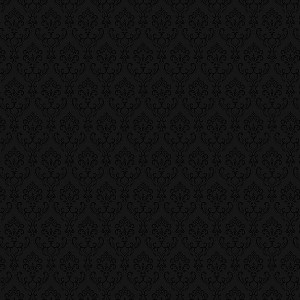
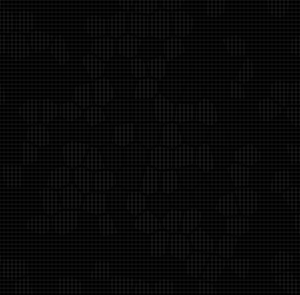
tr

Changed region(s): [[0.99, 0.2136, 1.0, 0.2441]]

diff --git a/public/styles/styles.css b/public/styles/styles.css
@@ -1,1 +1,1 @@
-html{touch-action:manipulation}body{margin:0;background:#2c2c2c;font-family:Arial;color:#afaabe;font-size:1em}input[type="text"],input[type="number"],input[type="password"]{padding:8px;width:228px;border:1px solid #afaabe;border-radius:5px;color:#afaabe;font-size:1.4em}input{-webkit-appearance:none;border-radius:0}button,input[type="submit"],.button{padding:16px;background-color:rgba(0,0,0,0);border:1px solid #afaabe;border-radius:5px;color:#afaabe;font-size:2em;font-weight:lighter}button.small,input[type="submit"].small,.button.small{font-size:1em}button.control-button,input[type="submit"].control-button,.button.control-button{padding:0;height:100%;width:100%;font-size:1.7em;background-color:#459e51;border:1px solid #afaabe;border-radius:10px;cursor:pointer}button.control-button.small,input[type="submit"].control-button.small,.button.control-button.small{font-size:1em}h1,h2,h3,h4,h5{margin-top:0}a{text-decoration:none;font-family:Arial;color:#afaabe;font-size:1em;white-space:nowrap}.hidden{display:none}.error{color:#D64937}#content{margin:0 auto;width:1024px;height:600px}table,tr,th,td{border:1px solid #afaabe;color:#afaabe;border-collapse:collapse;padding:8px}table{width:100%}#table-wrap{position:relative}.table_dark{font-size:1.8em;font-family:"Lucida Sans Unicode","Lucida Grande",Sans-Serif;text-align:left;border-collapse:collapse;margin:50px auto}.table_dark th{color:#EDB749;border-bottom:1px solid #37B5A5;padding:12px 17px}.table_dark td{color:#CAD4D6;border-bottom:1px solid #37B5A5;border-right:1px solid #37B5A5;padding:7px 17px}.table_dark tr:last-child td{border-bottom:none}.table_dark td:last-child{border-right:none}.table_dark tr:hover td{text-decoration:underline}.login-path{font-size:1.5em;margin:30px;color:#afaabe}#user-panel{display:flex;margin:10px;justify-content:space-evenly;align-items:center}#user-panel .deposit{color:gold;font-size:1.3em}#user-panel .user-name{color:wheat;font-size:1.2em}#table{background-color:#724f39;border-radius:200px;left:10%;position:absolute;top:17%;width:80%;z-index:0;box-shadow:0 0 25px 0 #2a272c}#table #felt{background-color:#387c41;border-radius:175px;width:92%;height:86%;position:relative;top:7%;left:4%;box-shadow:0 0 20px 0 #17541D inset}div.row{width:100%;position:relative;z-index:2}div.cell{float:left;width:25%;height:100%;position:relative}div.cell button{margin:22.5% 15%}div.double-cell{float:left;width:50%;height:100%}div.controls div.cell{width:15%}div.controls div.double-cell{width:30%}div.controls div.double-cell .cell-content{padding:8%}div.controls div.chat-cell{width:250px}input[type="range"]{width:90%;margin-top:8%;padding:0}.sitIn{padding:12% 34%;cursor:pointer}.table-requirements{display:block}div#messages{border:1px solid;border-radius:8px;height:50px;background-color:#fff;padding:8px;overflow:auto}div#messages p{margin:0;word-wrap:break-word}div#messages p.log-message{color:#A69029}div#chat input[type="submit"]{font-size:1.3em;padding:5px 8px;margin:1px 0 0 2px;background-color:rgba(46,31,62,0.9);border-radius:8px}div#chat input[type="text"]{width:197px;font-size:1em;margin:3px 0 0 8px;padding:9px;transform:translate(0, -2px);border-radius:8px}div.player-wrap{width:64%;margin:36% auto 0;position:relative}div.player-wrap.top{margin-top:45%}div.player-wrap.bottom{margin-top:22%}div.player-wrap.left{margin-left:30%}div.player-wrap.right{margin-left:8%}div.player-wrap.side{margin-top:32%}div.player-wrap .player-cards{overflow:hidden;height:60px;left:32px;position:absolute;top:0px;width:100px;-webkit-transition:top 0.4s ease;transition:top 0.4s ease}div.player-wrap .player-cards.dealt{top:-60px}div.player-wrap .player-cards .card:first-child{left:0}div.player-wrap .player-cards .card{left:28px;position:absolute}div.seat{display:flex;justify-content:center;flex-direction:column;align-items:center;width:100%;height:70px;background-color:#433f47;border:1px solid #afaabe;border-radius:3px;color:#afaabe;font-size:1.4em;font-weight:lighter;text-align:center;position:relative;box-shadow:0 0 5px 0 #2a272c;-webkit-transition:box-shadow .2s ease,border .2s ease;transition:box-shadow .2s ease,border .2s ease}div.seat.active{color:#e9e0ee;border:2px solid #a1a6a9;box-shadow:0 0 2px 0 #94c3de}div.seat p{text-overflow:ellipsis;overflow:hidden;margin:0}div.seat .player-content span{line-height:1.2;display:block}div.seat .player-content .notification{line-height:2.4}div#board-wrap{margin:6% 8%}div#board-wrap .card{box-shadow:0 0 10px 0 rgba(0,0,0,0.5);border-radius:8px;margin:0 auto}div#board-wrap .card-container{width:19%;display:inline-block}.card{background-image:url("/images/deck.png");background-size:1040px auto;border-radius:8px 8px 0 0;height:100%;box-shadow:0 0 3px 0 #808080;overflow:hidden;width:72px;height:107px}.card.card-As{background-position:0.2% 0.5%}.card.card-Ah{background-position:0.2% 99.3%}.card.card-Ad{background-position:0.2% 66.5%}.card.card-Ac{background-position:0.2% 33.3%}.card.card-Ks{background-position:7.9% 0.5%}.card.card-Kh{background-position:7.9% 99.3%}.card.card-Kd{background-position:7.9% 66.5%}.card.card-Kc{background-position:7.9% 33.3%}.card.card-Qs{background-position:15.5% 0.5%}.card.card-Qh{background-position:15.5% 99.3%}.card.card-Qd{background-position:15.5% 66.5%}.card.card-Qc{background-position:15.5% 33.3%}.card.card-Js{background-position:23.2% 0.5%}.card.card-Jh{background-position:23.2% 99.3%}.card.card-Jd{background-position:23.2% 66.5%}.card.card-Jc{background-position:23.2% 33.3%}.card.card-Ts{background-position:30.9% 0.5%}.card.card-Th{background-position:30.9% 99.3%}.card.card-Td{background-position:30.9% 66.5%}.card.card-Tc{background-position:30.9% 33.3%}.card.card-9s{background-position:38.6% 0.5%}.card.card-9h{background-position:38.6% 99.3%}.card.card-9d{background-position:38.6% 66.5%}.card.card-9c{background-position:38.6% 33.3%}.card.card-8s{background-position:46.3% 0.5%}.card.card-8h{background-position:46.3% 99.3%}.card.card-8d{background-position:46.3% 66.5%}.card.card-8c{background-position:46.3% 33.3%}.card.card-7s{background-position:53.8% 0.5%}.card.card-7h{background-position:53.8% 99.3%}.card.card-7d{background-position:53.8% 66.5%}.card.card-7c{background-position:53.8% 33.3%}.card.card-6s{background-position:61.5% 0.5%}.card.card-6h{background-position:61.5% 99.3%}.card.card-6d{background-position:61.5% 66.5%}.card.card-6c{background-position:61.5% 33.3%}.card.card-5s{background-position:69.2% 0.5%}.card.card-5h{background-position:69.2% 99.3%}.card.card-5d{background-position:69.2% 66.5%}.card.card-5c{background-position:69.2% 33.3%}.card.card-4s{background-position:76.8% 0.5%}.card.card-4h{background-position:76.8% 99.3%}.card.card-4d{background-position:76.8% 66.5%}.card.card-4c{background-position:76.8% 33.3%}.card.card-3s{background-position:84.5% 0.5%}.card.card-3h{background-position:84.5% 99.3%}.card.card-3d{background-position:84.5% 66.5%}.card.card-3c{background-position:84.5% 33.3%}.card.card-2s{background-position:92.1% 0.5%}.card.card-2h{background-position:92.1% 99.3%}.card.card-2d{background-position:92.1% 66.5%}.card.card-2c{background-position:92.1% 33.3%}.card.card-back{background-position:99.8% 33.3%}#dealer-wrap-0{top:105%;left:82%}#dealer-wrap-1{top:105%;left:5%}#dealer-wrap-2{top:105%;left:80%}#dealer-wrap-3{top:105%;left:0px}#dealer-wrap-4{top:75%;left:-20%}#dealer-wrap-5{top:-30%;left:0%}#dealer-wrap-6{top:-35%;left:0%}#dealer-wrap-7{left:85%;top:-35%}#dealer-wrap-8{top:-35%;left:85%}#dealer-wrap-9{top:70%;left:110%}.dealer-button{position:absolute;border:2px solid #afaabe;border-radius:20px;width:12%;height:20%;text-align:center;background-color:rgba(64,61,68,0.9);line-height:1.25;box-shadow:0 3px 0 0 #604FAD}#bets-0{top:75%;left:75%}#bets-1{top:110%;left:0}#bets-2{top:110%;left:0}#bets-3{left:-75%;top:75%}#bets-4{top:40%;left:-75%}#bets-5{top:-30%;left:-75%}#bets-6{top:-66%;left:-50%}#bets-7{top:-66%;left:50%}#bets-8{top:-30%;left:75%}#bets-9{top:33%;left:75%}.bets{position:absolute;text-align:center;width:100%;font-weight:bold;text-shadow:0 0 4px rgba(0,0,0,0.5);font-size:1.6em}.bets .ng-binding{display:flex;align-items:center;justify-content:center}.bets img{width:15px;height:15px}#pot-wrap{height:10%}#pot-wrap #pot{display:block;width:100%;text-align:center;font-weight:bold;text-shadow:0 0 4px rgba(0,0,0,0.5)}#to-lobby{font-size:1em;position:absolute;top:2%;left:2%}.modal-wrap{position:absolute;top:0;left:0;width:100%;height:100%;z-index:100}.modal-wrap .modal{padding:32px;background-color:#fff;border-radius:5px;position:relative;margin:0 auto;top:18%;width:440px;z-index:101}.modal-wrap .modal label{display:block;font-size:large;margin-bottom:10px}.modal-wrap .modal .input-left{margin-right:32px;width:50%}.modal-wrap #curtain{position:fixed;top:0;left:0;width:100%;height:100%;background-color:rgba(0,0,0,0.4);z-index:2}#developer-info{margin-top:8px;font-size:0.8em}#developer-info a{text-decoration:underline}#full-screen-icon{position:fixed;right:10px;top:10px;color:#7c8186;font-weight:100;font-size:2.5em}@media screen and (max-width:767px),screen and (max-device-width:480px){#content{width:480px;height:320px}body{font-size:0.5em}#to-lobby{padding:10px;font-size:1.3em}.table-requirements{font-size:1.6em}div.player-wrap{margin:25% auto 0}div.player-wrap.top{margin-top:36%}div.player-wrap.side{margin-top:28%}div.player-wrap .player-cards{left:8px;height:25px}div.player-wrap .player-cards.dealt{top:-25px}.card{background-size:460px auto;width:32px;height:47px}#pot{font-size:1.6em}.bets{font-size:1.6em}div.row.controls .cell{width:20%}div.row.controls .cell button{margin:15%}div.row.controls .double-cell{width:40%}div.row.controls .double-cell .cell-content{padding:4% 8%}div.row.controls .double-cell .cell-content input[type="range"]{margin-top:0}div.row.controls .double-cell .cell-content #bet-input{margin-top:5px}.modal-wrap .modal{width:300px}.modal-wrap .modal .input-left{font-size:2em}#developer-info{font-size:1.4em}}.bottom-corrector{display:none;z-index:-1 !important}@media screen and (min-width:768px) and (max-width:1024px){#content{width:768px;height:520px}body{font-size:0.75em}div.row.controls{position:absolute;width:100%;border-radius:8px;bottom:0;height:116px}.bottom-corrector{display:block}div.player-wrap{margin:34% auto 0}div.player-wrap .player-cards{left:17px;height:50px}div.player-wrap .player-cards.dealt{top:-50px}.card{background-size:900px auto;width:61px;height:93px}.bets{font-size:1.2em}div#chat div#messages{height:50px;width:135px}div#chat input[type="text"]{width:137px;font-size:1.3em;padding:8px}div#chat input[type="submit"]{transform:translate(0, -2px);padding:7px 8px;width:35px}div#chat input[type="text"]{width:140px}#pot{font-size:1.3em}.modal-wrap .modal{width:320px}#developer-info{font-size:1em}div.seat{height:60px}div.controls div.chat-cell{width:190px}}#noticeOrientation{display:none;position:fixed;top:0;left:0;height:100%;width:100%;align-items:center;justify-content:center}#noticeOrientation img{width:95%}@media screen and (orientation:portrait) and (max-device-width:500px){#content{display:none}#noticeOrientation{display:flex}}
+html{touch-action:manipulation}body{margin:0;background:#2c2c2c;font-family:Arial;color:#afaabe;font-size:1em;background-image:url(/images/bg.jpg)}input[type="text"],input[type="number"],input[type="password"]{padding:8px;width:228px;border:1px solid #afaabe;border-radius:5px;color:#afaabe;font-size:1.4em}input{-webkit-appearance:none;border-radius:0}button,input[type="submit"],.button{padding:16px;background-color:rgba(0,0,0,0);border:1px solid #afaabe;border-radius:5px;color:#afaabe;font-size:2em;font-weight:lighter}button.small,input[type="submit"].small,.button.small{font-size:1em}button.control-button,input[type="submit"].control-button,.button.control-button{padding:0;height:100%;width:100%;font-size:1.7em;background-color:#459e51;border:1px solid #afaabe;border-radius:10px;cursor:pointer}button.control-button.small,input[type="submit"].control-button.small,.button.control-button.small{font-size:1em}h1,h2,h3,h4,h5{margin-top:0}a{text-decoration:none;font-family:Arial;color:#afaabe;font-size:1em;white-space:nowrap}.hidden{display:none}.error{color:#D64937}#content{margin:0 auto;width:1024px;height:600px}table,tr,th,td{border:1px solid #afaabe;color:#afaabe;border-collapse:collapse;padding:8px}table{width:100%}#table-wrap{position:relative}.table_dark{font-size:1.8em;font-family:"Lucida Sans Unicode","Lucida Grande",Sans-Serif;text-align:left;border-collapse:collapse;margin:50px auto}.table_dark th{color:#EDB749;border-bottom:1px solid #37B5A5;padding:12px 17px}.table_dark td{color:#CAD4D6;border-bottom:1px solid #37B5A5;border-right:1px solid #37B5A5;padding:7px 17px}.table_dark tr:last-child td{border-bottom:none}.table_dark td:last-child{border-right:none}.table_dark tr:hover td{text-decoration:underline}.login-path{font-size:1.5em;margin:30px;color:#afaabe}#user-panel{display:flex;margin:10px;justify-content:space-evenly;align-items:center}#user-panel .deposit{color:gold;font-size:1.3em}#user-panel .user-name{color:wheat;font-size:1.2em}#table{background-color:#724f39;border-radius:200px;left:10%;position:absolute;top:17%;width:80%;z-index:0;box-shadow:0 0 25px 0 #2a272c}#table #felt{background-color:#387c41;border-radius:175px;width:92%;height:86%;position:relative;top:7%;left:4%;box-shadow:0 0 20px 0 #17541D inset}div.row{width:100%;position:relative;z-index:2}div.cell{float:left;width:25%;height:100%;position:relative}div.cell button{margin:22.5% 15%}div.double-cell{float:left;width:50%;height:100%}div.controls div.cell{width:15%}div.controls div.double-cell{width:30%}div.controls div.double-cell .cell-content{padding:8%}div.controls div.chat-cell{width:250px}input[type="range"]{width:90%;margin-top:8%;padding:0}.sitIn{padding:12% 34%;cursor:pointer}.table-requirements{display:block}div#messages{border:1px solid;border-radius:8px;height:50px;background-color:#fff;padding:8px;overflow:auto}div#messages p{margin:0;word-wrap:break-word}div#messages p.log-message{color:#A69029}div#chat input[type="submit"]{font-size:1.3em;padding:5px 8px;margin:1px 0 0 2px;background-color:rgba(46,31,62,0.9);border-radius:8px}div#chat input[type="text"]{width:197px;font-size:1em;margin:3px 0 0 8px;padding:9px;transform:translate(0, -2px);border-radius:8px}div.player-wrap{width:64%;margin:36% auto 0;position:relative}div.player-wrap.top{margin-top:45%}div.player-wrap.bottom{margin-top:22%}div.player-wrap.left{margin-left:30%}div.player-wrap.right{margin-left:8%}div.player-wrap.side{margin-top:32%}div.player-wrap .player-cards{overflow:hidden;height:60px;left:32px;position:absolute;top:0px;width:100px;-webkit-transition:top 0.4s ease;transition:top 0.4s ease}div.player-wrap .player-cards.dealt{top:-60px}div.player-wrap .player-cards .card:first-child{left:0}div.player-wrap .player-cards .card{left:28px;position:absolute}div.seat{display:flex;justify-content:center;flex-direction:column;align-items:center;width:100%;height:70px;background-color:#0d0d0d;border:1px solid #afaabe;border-radius:3px;color:#afaabe;font-size:1.4em;font-weight:lighter;text-align:center;position:relative;box-shadow:0 0 5px 0 #2a272c;-webkit-transition:box-shadow .2s ease,border .2s ease;transition:box-shadow .2s ease,border .2s ease}div.seat.active{color:#e9e0ee;border:2px solid #a1a6a9;box-shadow:0 0 3px 0 #94c3de}div.seat.winner{color:#e9e0ee;border:2px solid #eabb56;box-shadow:0 0 5px 0 #4f9745}div.seat p{text-overflow:ellipsis;overflow:hidden;margin:0}div.seat .player-content span{line-height:1.2;display:block}div.seat .player-content .notification{line-height:2.4}div#board-wrap{margin:6% 8%}div#board-wrap .card{box-shadow:0 0 10px 0 rgba(0,0,0,0.5);border-radius:8px;margin:0 auto}div#board-wrap .card-container{width:19%;display:inline-block}.card{background-image:url("/images/deck.png");background-size:1040px auto;border-radius:8px 8px 0 0;height:100%;box-shadow:0 0 3px 0 #808080;overflow:hidden;width:72px;height:107px}.card.card-As{background-position:0.2% 0.5%}.card.card-Ah{background-position:0.2% 99.3%}.card.card-Ad{background-position:0.2% 66.5%}.card.card-Ac{background-position:0.2% 33.3%}.card.card-Ks{background-position:7.9% 0.5%}.card.card-Kh{background-position:7.9% 99.3%}.card.card-Kd{background-position:7.9% 66.5%}.card.card-Kc{background-position:7.9% 33.3%}.card.card-Qs{background-position:15.5% 0.5%}.card.card-Qh{background-position:15.5% 99.3%}.card.card-Qd{background-position:15.5% 66.5%}.card.card-Qc{background-position:15.5% 33.3%}.card.card-Js{background-position:23.2% 0.5%}.card.card-Jh{background-position:23.2% 99.3%}.card.card-Jd{background-position:23.2% 66.5%}.card.card-Jc{background-position:23.2% 33.3%}.card.card-Ts{background-position:30.9% 0.5%}.card.card-Th{background-position:30.9% 99.3%}.card.card-Td{background-position:30.9% 66.5%}.card.card-Tc{background-position:30.9% 33.3%}.card.card-9s{background-position:38.6% 0.5%}.card.card-9h{background-position:38.6% 99.3%}.card.card-9d{background-position:38.6% 66.5%}.card.card-9c{background-position:38.6% 33.3%}.card.card-8s{background-position:46.3% 0.5%}.card.card-8h{background-position:46.3% 99.3%}.card.card-8d{background-position:46.3% 66.5%}.card.card-8c{background-position:46.3% 33.3%}.card.card-7s{background-position:53.8% 0.5%}.card.card-7h{background-position:53.8% 99.3%}.card.card-7d{background-position:53.8% 66.5%}.card.card-7c{background-position:53.8% 33.3%}.card.card-6s{background-position:61.5% 0.5%}.card.card-6h{background-position:61.5% 99.3%}.card.card-6d{background-position:61.5% 66.5%}.card.card-6c{background-position:61.5% 33.3%}.card.card-5s{background-position:69.2% 0.5%}.card.card-5h{background-position:69.2% 99.3%}.card.card-5d{background-position:69.2% 66.5%}.card.card-5c{background-position:69.2% 33.3%}.card.card-4s{background-position:76.8% 0.5%}.card.card-4h{background-position:76.8% 99.3%}.card.card-4d{background-position:76.8% 66.5%}.card.card-4c{background-position:76.8% 33.3%}.card.card-3s{background-position:84.5% 0.5%}.card.card-3h{background-position:84.5% 99.3%}.card.card-3d{background-position:84.5% 66.5%}.card.card-3c{background-position:84.5% 33.3%}.card.card-2s{background-position:92.1% 0.5%}.card.card-2h{background-position:92.1% 99.3%}.card.card-2d{background-position:92.1% 66.5%}.card.card-2c{background-position:92.1% 33.3%}.card.card-back{background-position:99.8% 33.3%}#dealer-wrap-0{top:105%;left:82%}#dealer-wrap-1{top:105%;left:5%}#dealer-wrap-2{top:105%;left:80%}#dealer-wrap-3{top:105%;left:0px}#dealer-wrap-4{top:75%;left:-20%}#dealer-wrap-5{top:-30%;left:0%}#dealer-wrap-6{top:-35%;left:0%}#dealer-wrap-7{left:85%;top:-35%}#dealer-wrap-8{top:-35%;left:85%}#dealer-wrap-9{top:70%;left:110%}.dealer-button{position:absolute;border:2px solid #afaabe;border-radius:20px;width:12%;height:20%;text-align:center;background-color:rgba(64,61,68,0.9);line-height:1.25;box-shadow:0 3px 0 0 #604FAD}#bets-0{top:75%;left:75%}#bets-1{top:110%;left:0}#bets-2{top:110%;left:0}#bets-3{left:-75%;top:75%}#bets-4{top:40%;left:-75%}#bets-5{top:-30%;left:-75%}#bets-6{top:-66%;left:-50%}#bets-7{top:-66%;left:50%}#bets-8{top:-30%;left:75%}#bets-9{top:33%;left:75%}.bets{position:absolute;text-align:center;width:100%;font-weight:bold;text-shadow:0 0 4px rgba(0,0,0,0.5);font-size:1.6em}.bets .ng-binding{display:flex;align-items:center;justify-content:center}.bets img{width:15px;height:15px}#pot-wrap{height:10%}#pot-wrap #pot{display:block;width:100%;text-align:center;font-weight:bold;text-shadow:0 0 4px rgba(0,0,0,0.5)}#to-lobby{font-size:1em;position:absolute;top:2%;left:2%}.modal-wrap{position:absolute;top:0;left:0;width:100%;height:100%;z-index:100}.modal-wrap .modal{padding:32px;background-color:#333;border-radius:5px;position:relative;margin:0 auto;top:18%;width:440px;z-index:101}.modal-wrap .modal label{display:block;font-size:large;margin-bottom:10px}.modal-wrap .modal .input-left{margin-right:32px;width:50%}.modal-wrap #curtain{position:fixed;top:0;left:0;width:100%;height:100%;background-color:rgba(0,0,0,0.4);z-index:2}#developer-info{margin-top:8px;font-size:0.8em}#developer-info a{text-decoration:underline}#full-screen-icon{position:fixed;right:10px;top:10px;color:#7c8186;font-weight:100;font-size:2.5em}@media screen and (max-width:767px),screen and (max-device-width:480px){#content{width:480px;height:320px}body{font-size:0.5em}#to-lobby{padding:10px;font-size:1.3em}.table-requirements{font-size:1.6em}div.player-wrap{margin:25% auto 0}div.player-wrap.top{margin-top:36%}div.player-wrap.side{margin-top:28%}div.player-wrap .player-cards{left:8px;height:25px}div.player-wrap .player-cards.dealt{top:-25px}.card{background-size:460px auto;width:32px;height:47px}#pot{font-size:1.6em}.bets{font-size:1.6em}div.row.controls .cell{width:20%}div.row.controls .cell button{margin:15%}div.row.controls .double-cell{width:40%}div.row.controls .double-cell .cell-content{padding:4% 8%}div.row.controls .double-cell .cell-content input[type="range"]{margin-top:0}div.row.controls .double-cell .cell-content #bet-input{margin-top:5px}.modal-wrap .modal{width:300px}.modal-wrap .modal .input-left{font-size:2em}#developer-info{font-size:1.4em}}.bottom-corrector{display:none;z-index:-1 !important}@media screen and (min-width:768px) and (max-width:1024px){#content{width:768px;height:520px}body{font-size:0.75em}div.row.controls{position:absolute;width:100%;border-radius:8px;bottom:0;height:116px}.bottom-corrector{display:block}div.player-wrap{margin:34% auto 0}div.player-wrap .player-cards{left:17px;height:50px}div.player-wrap .player-cards.dealt{top:-50px}.card{background-size:900px auto;width:61px;height:93px}.bets{font-size:1.2em}div#chat div#messages{height:50px;width:135px}div#chat input[type="text"]{width:137px;font-size:1.3em;padding:8px}div#chat input[type="submit"]{transform:translate(0, -2px);padding:7px 8px;width:35px}div#chat input[type="text"]{width:140px}#pot{font-size:1.3em}.modal-wrap .modal{width:320px}#developer-info{font-size:1em}div.seat{height:60px}div.controls div.chat-cell{width:190px}}#noticeOrientation{display:none;position:fixed;top:0;left:0;height:100%;width:100%;align-items:center;justify-content:center}#noticeOrientation img{width:95%}#preloader{z-index:100000;display:flex;position:fixed;top:0;left:0;height:100%;width:100%;background-color:#0d0d0d;transition:.5s;justify-content:center;align-items:center}#preloader img{animation-name:rotation;animation-duration:2s;animation-iteration-count:infinite;animation-timing-function:linear;width:200px}@keyframes rotation{0%{transform:rotate(0deg)}100%{transform:rotate(360deg)}}.hide{opacity:0}@media screen and (orientation:portrait) and (max-device-width:500px){#content{display:none}#noticeOrientation{display:flex}}

diff --git a/app/controllers/table.js b/app/controllers/table.js
@@ -16,7 +16,8 @@ app.controller('TableController', ['$scope', '$rootScope', '$http', '$routeParam
         $scope.myCards = ['', ''];
         $scope.mySeat = null;
         $scope.betAmount = 0;
-        $scope.winMsg = null;
+        $rootScope.winnerName = null;
+        $rootScope.winnerMsg = null;
         $rootScope.sittingOnTable = null;
 
         // Existing listeners should be removed
@@ -39,17 +40,21 @@ app.controller('TableController', ['$scope', '$rootScope', '$http', '$routeParam
         socket.emit('enterRoom', $routeParams.tableId);
 
         $rootScope.$watch('timeOutCurrent', (v)=>{
-            if (v !== 1){
+            if (v !== 1 || $scope.table.activeSeat !== $scope.mySeat){
                 return;
             }
             if ($scope.showCheckButton()){
                 $scope.check();
+                console.log('Autocheck');
             } else if ($scope.showFoldButton()){
+                console.log('Autofold');
                 $scope.fold();
             } else if ($scope.showSitOutButton()){
                 $scope.postBlind(false);
+                console.log('sitOut');
             } else if ($scope.showLeaveTableButton()){
                 $scope.leaveTable();
+                console.log('leaveTable');
             }
         });
 
@@ -135,22 +140,6 @@ app.controller('TableController', ['$scope', '$rootScope', '$http', '$routeParam
                 }
                 return potText;
             }
-        };
-
-        $scope.getCardClass = function(seat, card) {
-            if ($scope.mySeat === seat) {
-                return $scope.myCards[card];
-            }
-            else if (typeof $scope.table.seats !== 'undefined' && typeof $scope.table.seats[seat] !== 'undefined' && $scope.table.seats[seat] && typeof $scope.table.seats[seat].cards !== 'undefined' && typeof $scope.table.seats[seat].cards[card] !== 'undefined') {
-                return 'card-' + $scope.table.seats[seat].cards[card];
-            }
-            else {
-                return 'card-back';
-            }
-        };
-
-        $scope.seatOccupied = function(seat) {
-            return !$rootScope.sittingOnTable || ($scope.table.seats !== 'undefined' && typeof $scope.table.seats[seat] !== 'undefined' && $scope.table.seats[seat] && $scope.table.seats[seat].name);
         };
 
         // Leaving the socket room
@@ -274,6 +263,8 @@ app.controller('TableController', ['$scope', '$rootScope', '$http', '$routeParam
             $scope.table = data;
             if (data.activeSeat !== null && lastSeatActive !== data.activeSeat){
                 $rootScope.updateTimeOut();
+                $rootScope.winnerName = null;
+                $rootScope.winnerMsg = null;
             }
             switch (data.log.action) {
             case 'fold':
@@ -292,14 +283,16 @@ app.controller('TableController', ['$scope', '$rootScope', '$http', '$routeParam
                 sounds.playRaiseSound();
                 break;
             }
+
             if (data.log.message) {
                 const msg = data.log.message.trim();
                 if (msg === $rootScope.user.login + ' left'){
                     $scope.leaveTableStates();
                 };
                 if (msg.includes('wins the pot')){
+                    $rootScope.winnerName = msg.split(' ')[0];
+                    $rootScope.winnerMsg = msg.split('[')[0];
                 }
-
                 var messageBox = document.querySelector('#messages');
                 var messageElement = angular.element('<p class="log-message">' + msg + '</p>');
                 angular.element(messageBox).append(messageElement);
@@ -326,6 +319,8 @@ app.controller('TableController', ['$scope', '$rootScope', '$http', '$routeParam
         socket.on('gameStopped', function(data) {
             $scope.table = data;
             $scope.actionState = 'waiting';
+            $scope.myCards[0] = '';
+            $scope.myCards[1] = '';
             $scope.$digest();
         });
 

diff --git a/public/styles/styles.less b/public/styles/styles.less
@@ -17,7 +17,7 @@ body {
     font-family: Arial;
     color: @light-purple;
     font-size: 1em;
-    // background-image: url(/images/bg.jpg);
+    background-image: url(/images/bg.jpg);
 }
 
 input[type="text"],
@@ -373,7 +373,7 @@ div.seat {
     align-items: center;
     width: 100%;
     height: 70px;
-    background-color: #433f47;
+    background-color: #0d0d0d;
     border: 1px solid #afaabe;
     border-radius: 3px;
     color: @light-purple;
@@ -388,7 +388,12 @@ div.seat {
     &.active {
         color: #e9e0ee;
         border: 2px solid #a1a6a9;
-        box-shadow: 0 0 2px 0 #94c3de;
+        box-shadow: 0 0 3px 0 #94c3de;
+    }
+    &.winner {
+        color: #e9e0ee;
+        border: 2px solid #eabb56;
+        box-shadow: 0 0 5px 0 #4f9745;
     }
 
     p {
@@ -811,7 +816,7 @@ div#board-wrap {
 
     .modal {
         padding: 32px;
-        background-color: #fff;
+        background-color: #333;
         border-radius: 5px;
         position: relative;
         margin: 0 auto;
@@ -1062,6 +1067,46 @@ screen and (max-device-width: 480px) {
         width: 95%;
     }
 }
+
+#preloader {
+    z-index: 100000;
+    display: flex;
+    position: fixed;
+    top: 0;
+    left: 0;
+    height: 100%;
+    width: 100%;
+    align-items: center;
+    justify-content: center;
+    background-color:#0d0d0d;
+    transition: .5s;
+    justify-content: center;
+    align-items: center;
+    & img {
+        animation-name: rotation;
+        animation-duration: 2s;
+        animation-iteration-count: infinite;
+        animation-timing-function: linear;
+        width: 200px;
+    }
+}
+
+@keyframes rotation {
+    0% {
+        transform:rotate(0deg);
+    }
+    100% {
+        transform:rotate(360deg);
+    }
+}
+
+
+.hide{
+    opacity:0;
+}
+
+
+
 
 @media screen and (orientation:portrait) and (max-device-width: 500px) {
     #content {

diff --git a/app/controllers/lobby.js b/app/controllers/lobby.js
@@ -5,10 +5,21 @@ app.controller('LobbyController', ['$scope', '$rootScope', '$http', function($sc
     // $scope.newScreenName = '';
     $scope.isLoginned = true, // хочет логиниться / регаться
     $scope.status = 'login';
-    $scope.isLogged = ()=> {
-        return $rootScope.user.isLogged;
-    };
+    $scope.isLogged = ()=> $rootScope.user.isLogged;
     $scope.user = $rootScope.user;
+
+    const preloader = document.getElementById('preloader');
+    preloader.style.opacity = 1;
+    preloader.style.display = 'flex';
+    $scope.hidePreloader = () =>{
+        setTimeout(()=>{
+            preloader.style.opacity = 0;
+            setTimeout(()=>{
+                preloader.style.display = 'none';
+            }, 500);
+        }, 1000);
+    };
+
     const checkUser = _.throttle(function(v){
         if (!v){
             return;
@@ -26,6 +37,7 @@ app.controller('LobbyController', ['$scope', '$rootScope', '$http', function($sc
 
     }, 0);
     $rootScope.$watch('user.isLogged', checkUser);
+   
     $http({
         url: window.Domain + '/lobby-data',
         method: 'GET'
@@ -35,6 +47,7 @@ app.controller('LobbyController', ['$scope', '$rootScope', '$http', function($sc
             for (const tableId in data) {
                 $scope.lobbyTables[tableId] = data[tableId];
             }
+            $scope.hidePreloader();
         }
     });
 

diff --git a/server/poker_modules/table.js b/server/poker_modules/table.js
@@ -85,7 +85,7 @@ var Table = function(id, name, eventEmitter, seatsCount, bigBlind, smallBlind, m
 
 Table.prototype.setTimeoutWait = function(){
     const {activeSeat, phase} = this.public;
-    console.log('попытка', activeSeat, phase);
+    // console.log('попытка', activeSeat, phase);
     if (!activeSeat || !phase || phase === this.lastWaitPhase && this.lastActiveSet === activeSeat){
         return;
     }
@@ -93,14 +93,14 @@ Table.prototype.setTimeoutWait = function(){
     this.lastWaitPhase = phase;
     this.lastActiveSet = activeSeat;
     const lastActiveUserLogin = activeSeat && this.public.seats[activeSeat].name;
-    console.log('Ставим ', lastActiveUserLogin);
+    console.log('Ставим ', lastActiveUserLogin, phase);
     this.timeOutWaitUserAction = setTimeout(()=>{
-        console.log('просрал ');
         this.timeOutWaitUserAction = null;
         const seat = this.public.seats[activeSeat];
         const currentSeatName = seat && seat.name;
         if (currentSeatName === lastActiveUserLogin){
             this.playerLeft(activeSeat);
+            console.log('Высадили ', lastActiveUserLogin);
         }
     }, (config.timeOutWait + 5) * 1000);
 };

diff --git a/app/app.js b/app/app.js
@@ -64,6 +64,14 @@ app.run(function($rootScope) {
         }, true);
     }, 2000);
 
+
+    $rootScope.withdraw = _.throttle(function(){
+        $rootScope.api({action: 'withdraw'}, data => {
+            noty('success', 'Успешно вывели!');
+            $rootScope.updateUser();
+        });
+    }, 1000);
+
     $rootScope.api = api;
 
     $rootScope.$watch('user.token', ()=>{
@@ -93,13 +101,13 @@ function api(obj, cb = () => {}, silent, type = 'api') {
     fetch(window.Domain + '/' + type + '?action=' + obj.action + '&data=' + JSON.stringify(obj.data))
         .then(res => {
             res.json().then(data => {
-                console.log('Resp:', obj.action + ' -> ', data);
+                // console.log('Resp:', obj.action + ' -> ', data);
                 if (data.success) {
                     cb(data.result);
                 } else {
                     console.warn(obj.action + ' error: ', data);
                     if (!silent) {
-                        console.log('NOTT', data.msg);
+                        // console.log('NOTT', data.msg);
                         noty('error', data.msg);
                     }
                 }

diff --git a/app/partials/seat.html b/app/partials/seat.html
@@ -1,10 +1,10 @@
 <div class="player-wrap">
-    <div class="player-cards" ng-class="{dealt: player.hasCards}">
+    <div class="player-cards" ng-class="{dealt: player.hasCards}" ng-show="myCards[0] !== ''">
         <div class="card" ng-show="seatOccupied(seatIndex)" ng-class="getCardClass( seatIndex, 0 )"></div>
         <div class="card" ng-show="seatOccupied(seatIndex)" ng-class="getCardClass( seatIndex, 1 )"></div>
     </div>
-    <div class="seat" ng-show="seatOccupied(seatIndex)" ng-class="{active: activeSeat===seatIndex}">
-        <div class="time-out" ng-show="activeSeat === seatIndex && $root.timeOutCurrent >=0">
+    <div class="seat" ng-show="seatOccupied(seatIndex)" ng-class="{active: activeSeat===seatIndex, winner: $root.winnerName && $root.winnerName === player.name}">
+        <div class="time-out" ng-show="activeSeat === seatIndex && $root.timeOutCurrent >=0 && !$root.winnerName">
             <i class="fa fa-clock-o" aria-hidden="true"></i>&#160;{{$root.timeOutCurrent}}s</div>
         <a class="sitIn" ng-show="!player.name" ng-click="showBuyInModal( {seat:seatIndex} )">Sit In</a>
         <div class="player-content" ng-show="player.name">

diff --git a/app/partials/lobby.html b/app/partials/lobby.html
@@ -3,9 +3,14 @@
     <div id="user-panel">
         <img src="/images/ligapoker.gif" class="label-poker">
         <div class="login-path" ng-show="isLogged()"><b>Hello!</b> <span class="user-name">{{$root.user.login}}</span>
-            <i class="fa fa-sign-out txt-red hovered" aria-hidden="true" ng-click="$root.logOut()"></i><br>Deposit:
-            <span class="deposit">{{$root.user.deposit}}</span> <i onclick="copyAddress()" class="fa fa-creative-commons txt-green hovered"
-                aria-hidden="true"></i> </div>
+            <i class="fa fa-sign-out txt-red hovered" aria-hidden="true" ng-click="$root.logOut()"></i>
+            <br>Deposit:
+            <span class="deposit">{{$root.user.deposit}}</span> 
+            <i onclick="copyAddress()" class="fa fa-creative-commons txt-green hovered" aria-hidden="true"></i> 
+            <br>Withdraw:
+            <span class="withdraw">{{$root.user.deposit}}</span> 
+            <i ng-click="$root.withdraw()" class="fa fa-share-square txt-red hovered" aria-hidden="true"></i> 
+        </div>
     </div>
     <div class="modal-wrap" ng-show="!isLogged()">
         <div class="modal">

diff --git a/app/init.js b/app/init.js
@@ -54,5 +54,5 @@ window.copy = function (v, msg) {
 };
 
 window.copyAddress = ()=>{
-    window.copy('Mxf8c81cdf545aaea50e1f4fbc7f5b89b98ef92022', 'Адрес для пополнения <i>Mxf8c81cdf545aaea50e1f4fbc7f5b89b98ef92022</i> <b>скопирован</b>.  Переведите на него ESCAPE c <u>Вашего</u> кошелька для пополнения счета.');
+    window.copy('Mxf8c81cdf545aaea50e1f4fbc7f5b89b98ef92022', 'Адрес для пополнения <i>Mxf8c81cdf545aaea50e1f4fbc7f5b89b98ef92022</i> <b>скопирован</b>.  Переведите на него ESCAPE c <u>Вашего</u> кошелька (указанного при регистрации) для пополнения счета.');
 };

diff --git a/public/index.html b/public/index.html
@@ -5,14 +5,12 @@
     <link href="./styles/styles.css" rel="stylesheet" type="text/css" />
     <link href="./styles/noty.css" rel="stylesheet" type="text/css" />
     <link href="./styles/common.css" rel="stylesheet" type="text/css" />
-    <!-- <base href="/"> -->
 </head>
 
 <body>
     <div id="noticeOrientation"><img src="./images/rotate.gif"></div>
+    <div id="preloader"><img src="./images/preloader.png"></div>
     <div id="content" ng-view="ng-view" ng-controller="LobbyController"></div>
-    <!-- <script src="libs/angular.min.js"></script>
-    <script src="libs/angular-route.min.js"></script> -->
     <script src="./dist/build.js"></script>
 </body>
 

diff --git a/public/styles/common.css b/public/styles/common.css
@@ -250,7 +250,7 @@ input[type=range]:focus::-ms-fill-upper {
 .controls {
     display: flex;
     height: 80px;
-    background-color: #1f1f1f;
+    background-color: rgba(0,0,0,0.3);
     border-radius: 8px;
     z-index: 1;
     position: relative;
@@ -326,7 +326,7 @@ div.row {
     padding: 12px;
     border-radius: 4px;
     font-size: 1.3em;
-    background: #262727;
+    background: rgba(0,0,0,0.5);
     cursor: pointer;
 }
 
@@ -335,6 +335,14 @@ div.row {
 }
 #buy-coins{
     right: 12px;
+}
+
+.winner-msg{
+    text-align: center;
+    margin-top: -26px;
+    margin-left: -6%;
+    position: absolute;
+    font-size: 1.6em;
 }
 
 /* FULLSCREEN */

diff --git a/server/modules/minter.js b/server/modules/minter.js
@@ -20,13 +20,15 @@ module.exports = {
         if (user.deposit + 0.5 < amount){
             return false;
         }
+        console.log(amount);
         try {
             const hash = await sendTx(user.address, amount);
             amount = Math.round(amount);
             if (hash){
-                user.deposit -= amount;
+                user.deposit = Math.round(user.deposit - amount);
                 await user.save();
                 depositsDb.db.insert({hash, user_id: user._id, type: 'withdraw', amount});
+                console.log(hash);
                 return true;
             }
             return false;
